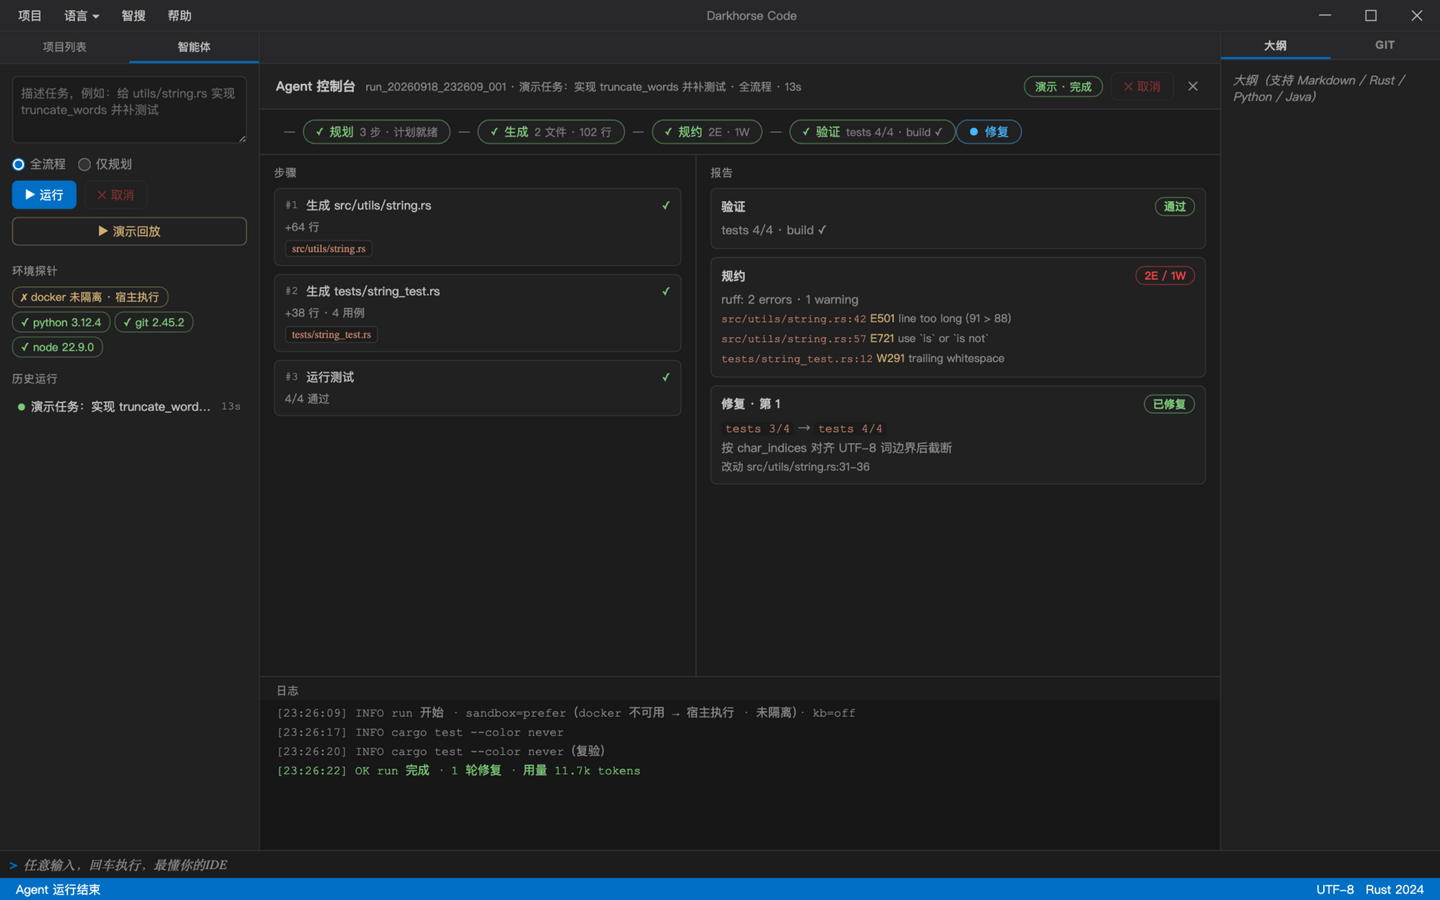
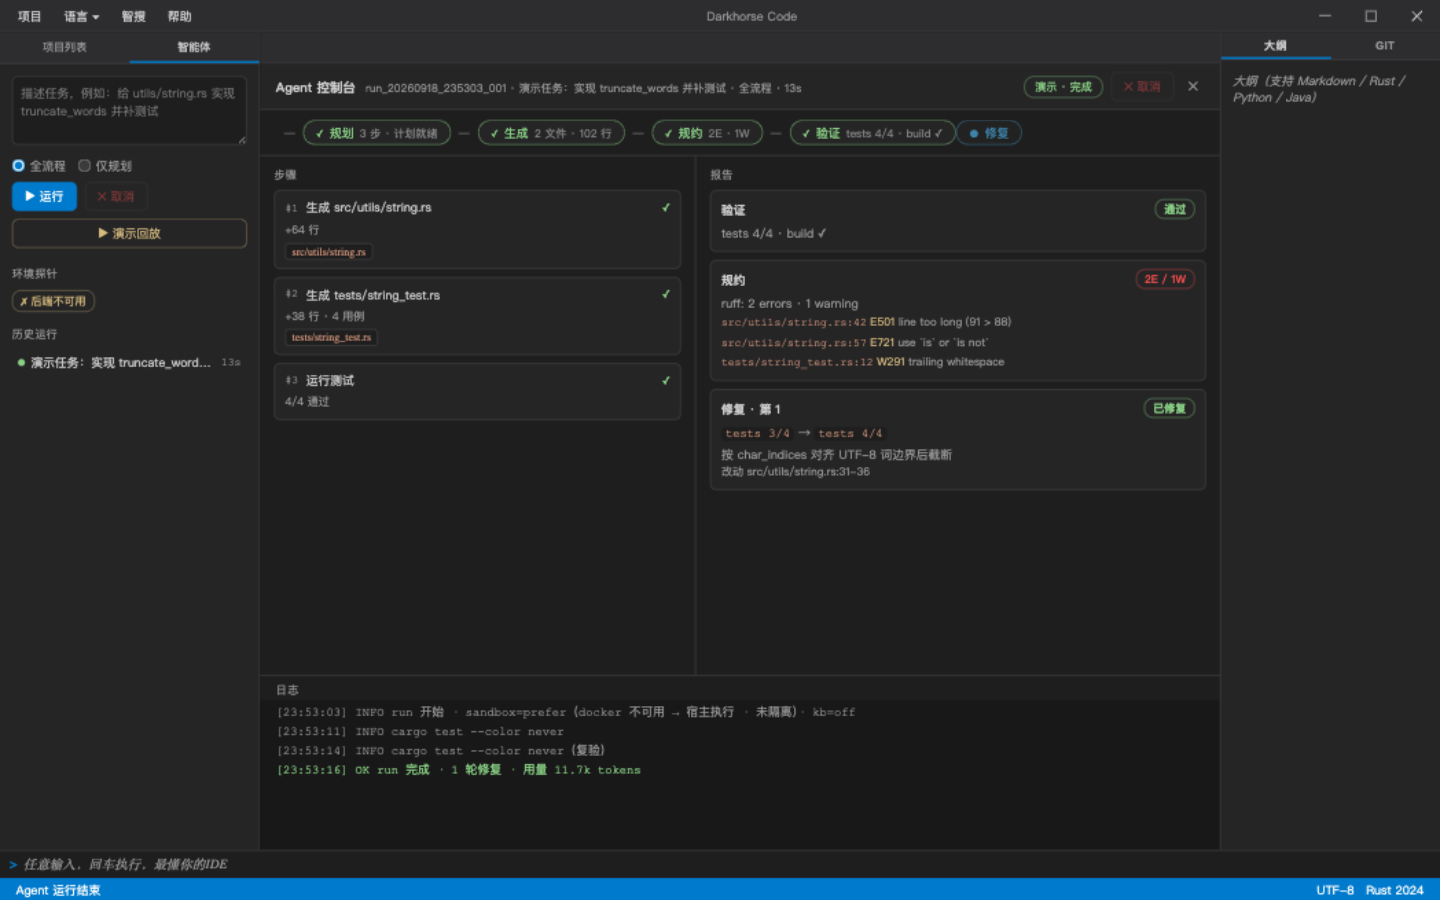
feat(agent): P3 —— 面板接真实命令，保留演示回退
- agent_run/agent_plan 按「仅规划」单选分流；错误以日志行 + 失败状态呈现
- agent_cancel 真实取消位贯通；历史列表改读 agent_runs（后端为唯一事实来源），
  点历史走 agent_run_load 从 RunRecord 还原管线条/步骤/报告视图
- 环境探针 chips 接 agent_env_probe（docker 隔离状态/python/node/git/key 配置）
- 演示徽章仅在无后端时显示；文案改为「演示模式 · 事件回放自测」
- check-style 0 error；浏览器回归无后端回退路径通过

diff --git a/ui/agent.js b/ui/agent.js
@@ -255,9 +255,10 @@
     // 修复轮次卡
     for (const r of vm.repairs) {
       const running = r.status === "running";
+      const applied = Array.isArray(r.applied) ? r.applied.length > 0 : !!r.applied;
       const badge = running
         ? `<span class="agent-badge agent-badge--run">${L("进行中", "running")}</span>`
-        : (r.applied
+        : (applied
             ? `<span class="agent-badge agent-badge--ok">${L("已修复", "fixed")}</span>`
             : `<span class="agent-badge agent-badge--off">${L("未应用", "not applied")}</span>`);
       cards.push('<div class="agent-card agent-card--repair">' +
@@ -296,19 +297,37 @@
     el.scrollTop = el.scrollHeight;
   }
 
-  function renderEnvChips() {
+  function renderEnvChips(env) {
     const el = $("agent-env-chips");
     if (!el) return;
-    // P2 接入 agent_env_probe 后替换为真实探针
-    const env = [
-      { name: "docker", ok: false, note: L("未隔离 · 宿主执行", "unisolated · host") },
-      { name: "python", ok: true, note: "3.12.4" },
-      { name: "git", ok: true, note: "2.45.2" },
-      { name: "node", ok: true, note: "22.9.0" },
-    ];
-    el.innerHTML = env.map((e) =>
-      `<span class="agent-chip agent-chip--${e.ok ? "ok" : "warn"}">` +
-      `${e.ok ? "✓" : "✗"} ${esc(e.name)} ${esc(e.note)}</span>`).join("");
+    if (!env) {
+      // 无后端：保持最小占位（attach 时有 Tauri 会被 agent_env_probe 覆盖）
+      el.innerHTML = `<span class="agent-chip agent-chip--warn">✗ ${L("后端不可用", "backend unavailable")}</span>`;
+      return;
+    }
+    const chips = [];
+    const dockerOk = !!env.docker?.usable;
+    chips.push(`<span class="agent-chip agent-chip--${dockerOk ? "ok" : "warn"}">` +
+      `${dockerOk ? "✓" : "✗"} docker ${dockerOk
+        ? L("已隔离", "isolated")
+        : esc(env.docker?.summary || L("未隔离 · 宿主执行", "unisolated · host"))}</span>`);
+    for (const p of [env.python, env.node, env.git]) {
+      const short = String(p?.version || "").trim().split(/\s+/).pop() || "";
+      chips.push(`<span class="agent-chip agent-chip--${p?.available ? "ok" : "warn"}">` +
+        `${p?.available ? "✓" : "✗"} ${esc(p?.name ?? "?")} ${esc(short)}</span>`);
+    }
+    chips.push(`<span class="agent-chip agent-chip--${env.llm_key_configured ? "ok" : "warn"}">` +
+      `${env.llm_key_configured ? "✓" : "✗"} key ${env.llm_key_configured ? L("已配置", "set") : L("未配置", "missing")}</span>`);
+    el.innerHTML = chips.join("");
+  }
+
+  /** 真实环境探针（阻塞探针在 Rust 侧已入 blocking 线程池） */
+  function probeEnv() {
+    const invoke = getInvoke();
+    if (!invoke) return;
+    invoke("agent_env_probe", { projectRoot: null })
+      .then((env) => renderEnvChips(env))
+      .catch(() => {});
   }
 
   function renderHistory() {
@@ -318,14 +337,124 @@
       el.innerHTML = `<div class="agent-history-empty">${L("暂无运行记录", "No runs yet")}</div>`;
       return;
     }
-    el.innerHTML = history.slice().reverse().map((h, i) =>
-      `<div class="agent-history-item" data-hist="${history.length - 1 - i}">` +
-      `<span class="agent-dot agent-dot--${h.status}"></span>` +
-      `<span class="agent-history-task">${esc(truncate(h.task, 26))}</span>` +
-      `<span class="agent-history-time">${esc(h.elapsed)}s</span></div>`).join("");
-    el.querySelectorAll("[data-hist]").forEach((item) => {
-      item.addEventListener("click", () => restoreRun(history[Number(item.dataset.hist)]));
+    el.innerHTML = history.slice().reverse().map((h) => {
+      const data = h.vmJson ? `data-vm="${esc(h.id)}"` : `data-run="${esc(h.id)}"`;
+      return `<div class="agent-history-item" ${data}>` +
+        `<span class="agent-dot agent-dot--${h.status}"></span>` +
+        `<span class="agent-history-task">${esc(truncate(h.task, 26))}</span>` +
+        `<span class="agent-history-time">${esc(h.time)}</span></div>`;
+    }).join("");
+    el.querySelectorAll("[data-vm]").forEach((item) => {
+      item.addEventListener("click", () => {
+        const entry = history.find((h) => h.id === item.dataset.vm);
+        if (entry) restoreRun(entry);
+      });
     });
+    el.querySelectorAll("[data-run]").forEach((item) => {
+      item.addEventListener("click", () => loadRunRecord(item.dataset.run));
+    });
+  }
+
+  /**
+   * 真实模式：从后端 run 目录取历史（agent_runs，newest-first）。
+   * 浏览器/无后端时静默跳过，保留演示历史。
+   */
+  function loadHistory() {
+    const invoke = getInvoke();
+    if (!invoke) return;
+    invoke("agent_runs", { limit: 20, projectRoot: null })
+      .then((runs) => {
+        history.length = 0;
+        for (const r of runs ?? []) {
+          history.push({
+            id: r.run_id,
+            task: r.task || r.run_id,
+            status: r.status === "verified" || r.status === "planned" || r.status === "generated"
+              ? "done" : r.status === "failed" ? "error" : "canceled",
+            time: String(r.created_at || "").slice(11, 16) || "—",
+          });
+        }
+        renderHistory();
+      })
+      .catch(() => {});
+  }
+
+  /** 点历史项 → 加载完整 RunRecord 并还原视图 */
+  function loadRunRecord(runId) {
+    if (vm.status === "running") return;
+    const invoke = getInvoke();
+    if (!invoke) return;
+    invoke("agent_run_load", { runId, projectRoot: null })
+      .then((rec) => {
+        Object.assign(vm, newRunVm(), {
+          runId: rec.run_id,
+          task: rec.task,
+          mode: "full",
+          status: rec.status === "failed" ? "error" : "done",
+          demo: false,
+        });
+        // 阶段状态从记录推导（历史回看，不再有事件流）
+        if (rec.plan) vm.stages.plan = { status: "done", detail: `${rec.plan.steps?.length ?? 0} 步` };
+        if (rec.generation) {
+          const failed = (rec.generation.steps ?? []).filter((s) => s.status === "error").length;
+          vm.stages.generate = {
+            status: failed > 0 ? "error" : "done",
+            detail: `${rec.generation.files?.length ?? 0} 文件`,
+          };
+        }
+        if (rec.lint) {
+          const counts = rec.lint.counts ?? {};
+          vm.stages.lint = { status: "done", detail: "" };
+          vm.lint = {
+            ran: true,
+            ok: rec.lint.ok,
+            errors: counts.error ?? 0,
+            warnings: counts.warning ?? 0,
+            summary: "",
+            cmd: "",
+            parse_error: null,
+            diagnostics: (rec.lint.diagnostics ?? []).slice(0, 6).map((d) => ({
+              file: d.spans?.[0]?.file_name ?? "",
+              line: d.spans?.[0]?.line_start ?? 0,
+              rule: d.rule,
+              msg: d.message,
+            })),
+          };
+        }
+        if (rec.verify) {
+          vm.stages.verify = {
+            status: rec.verify.failed > 0 ? "error" : "done",
+            detail: rec.verify.verdict,
+          };
+        }
+        if (rec.error && rec.status === "failed") {
+          vm.stages.repair = { status: "error", detail: rec.error };
+        } else if ((rec.repair ?? []).length) {
+          vm.stages.repair = { status: "done", detail: `${rec.repair.length} 轮` };
+        }
+        vm.steps = (rec.generation?.steps ?? []).map((s) => ({
+          index: s.step_id,
+          total: (rec.generation?.steps ?? []).length,
+          title: s.title,
+          status: s.status === "done" ? "done" : s.status === "skipped" ? "skip" : "error",
+          notes: s.notes,
+          files: s.files,
+          error: s.error,
+        }));
+        vm.repairs = (rec.repair ?? []).map((r) => ({ ...r }));
+        vm.logs = [{
+          time: String(rec.created_at || "").slice(11, 19) || "--:--:--",
+          level: "info",
+          msg: `${rec.model} · ${rec.status}${rec.dir ? " · " + rec.dir : ""}`,
+        }];
+        renderShell();
+        showConsole();
+      })
+      .catch((err) => {
+        if (typeof setStatus === "function") {
+          setStatus(String(err ?? "load failed"), "error");
+        }
+      });
   }
 
   // ============================================
@@ -337,6 +466,11 @@
     return radio ? radio.value : "full";
   }
 
+  function getInvoke() {
+    if (typeof getTauriInvoke === "function") return getTauriInvoke();
+    return window.__TAURI__?.core?.invoke?.bind(window.__TAURI__.core) ?? null;
+  }
+
   function startTask(task, mode) {
     if (vm.status === "running") return;
     Object.assign(vm, newRunVm(), { task, mode, status: "running", startedAt: Date.now() });
@@ -344,18 +478,33 @@
     renderShell();
     showConsole();
 
-    const invoke = window.__TAURI__?.core?.invoke;
+    const invoke = getInvoke();
     if (invoke) {
-      invoke("agent_run", { task, projectRoot: null })
-        .then(() => finish("done"))
-        .catch(() => {
-          onLog({ level: "warn", msg: L("引擎未接入（P1 落位后可用），以下为演示回放",
-            "Engine not wired yet (lands in P1); replaying demo below") });
-          startDemo(task, mode, true);
+      // 真实引擎：阶段/步骤/报告全部由 agent://* 事件驱动（AgentSink 推送）
+      const cmd = mode === "plan" ? "agent_plan" : "agent_run";
+      invoke(cmd, { task, projectRoot: null })
+        .then(() => {
+          finish("done");
+          loadHistory();
+        })
+        .catch((err) => {
+          onLog({ level: "error", msg: String(err ?? L("运行失败", "run failed")) });
+          finish("error");
         });
       return;
     }
     startDemo(task, mode, true);
+  }
+
+  function cancelRun() {
+    if (vm.status !== "running") return;
+    const invoke = getInvoke();
+    if (invoke && !vm.demo) {
+      invoke("agent_cancel").catch(() => {});
+    }
+    stopDemo();
+    finish("canceled");
+    onLog({ level: "warn", msg: L("已取消（取消位贯通 <1s）", "canceled (cancel flag <1s)") });
   }
 
   function startDemo(task, mode, keepVm) {
@@ -386,13 +535,6 @@
     demoTimers.push(setTimeout(() => finish("done"), acc + 300));
   }
 
-  function cancelRun() {
-    if (vm.status !== "running") return;
-    stopDemo();
-    finish("canceled");
-    onLog({ level: "warn", msg: L("已取消（取消位贯通 <1s）", "canceled (cancel flag <1s)") });
-  }
-
   function finish(status) {
     stopClock();
     stopDemo();
@@ -402,12 +544,13 @@
       vm.status = "error";
     }
     renderHeader();
-    if (vm.runId) {
+    // 演示运行才进内存历史；真实运行以 agent_runs（后端 run 目录）为唯一来源
+    if (vm.demo && vm.runId) {
       history.push({
         id: vm.runId,
         task: vm.task,
         status: vm.status,
-        elapsed: vm.elapsed,
+        time: `${vm.elapsed}s`,
         vmJson: JSON.stringify({ ...vm, logs: vm.logs.slice(-50) }),
       });
       if (history.length > 20) history.shift();
@@ -616,7 +759,16 @@
         if (vm.status !== "running") showConsole();
       });
 
-    renderEnvChips();
+    // 真实引擎已接入：隐藏"演示模式"徽章，历史与环境探针走后端
+    const live = !!getInvoke();
+    const chip = document.querySelector(".agent-engine-chip");
+    if (chip) chip.style.display = live ? "none" : "";
+    if (live) {
+      loadHistory();
+      probeEnv();
+    }
+
+    renderEnvChips(null);
     renderHistory();
     renderShell();
 
